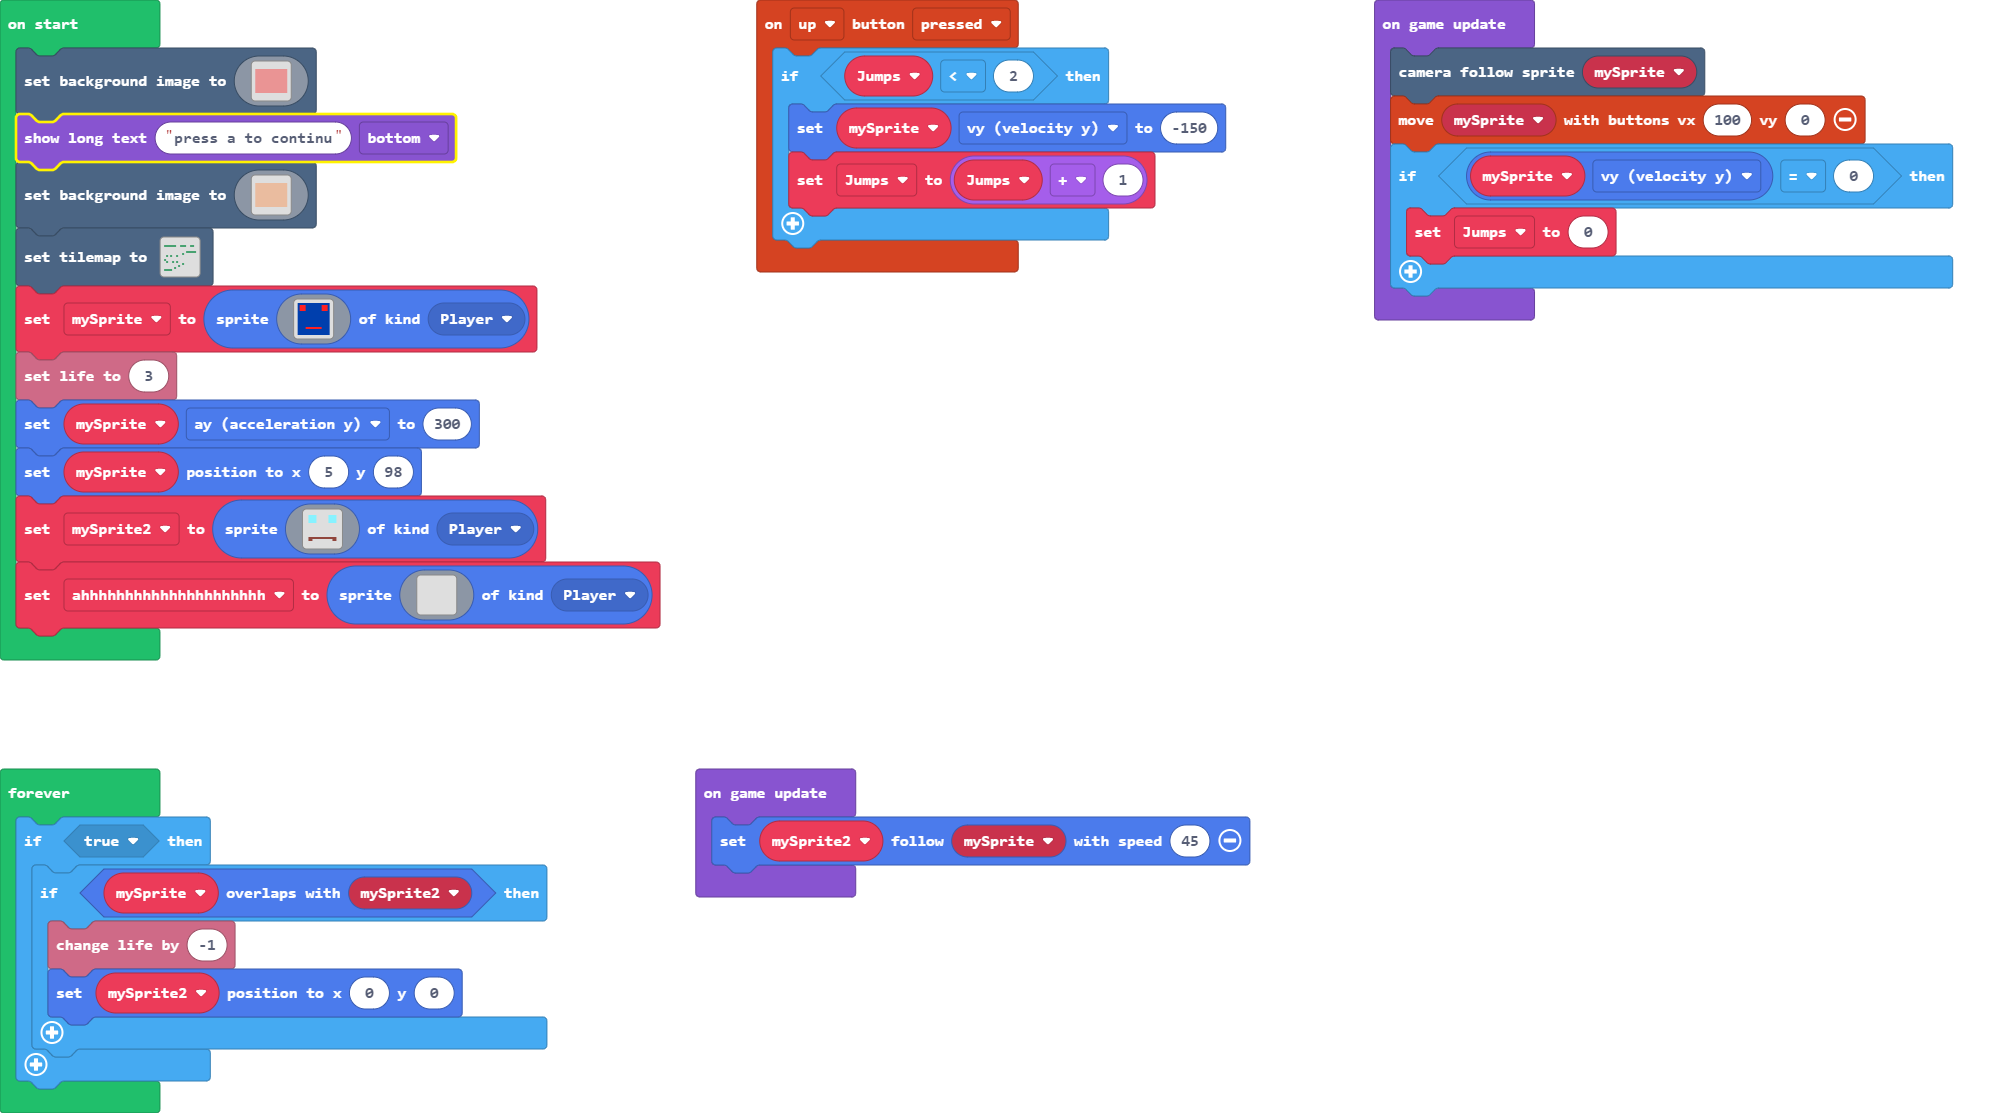
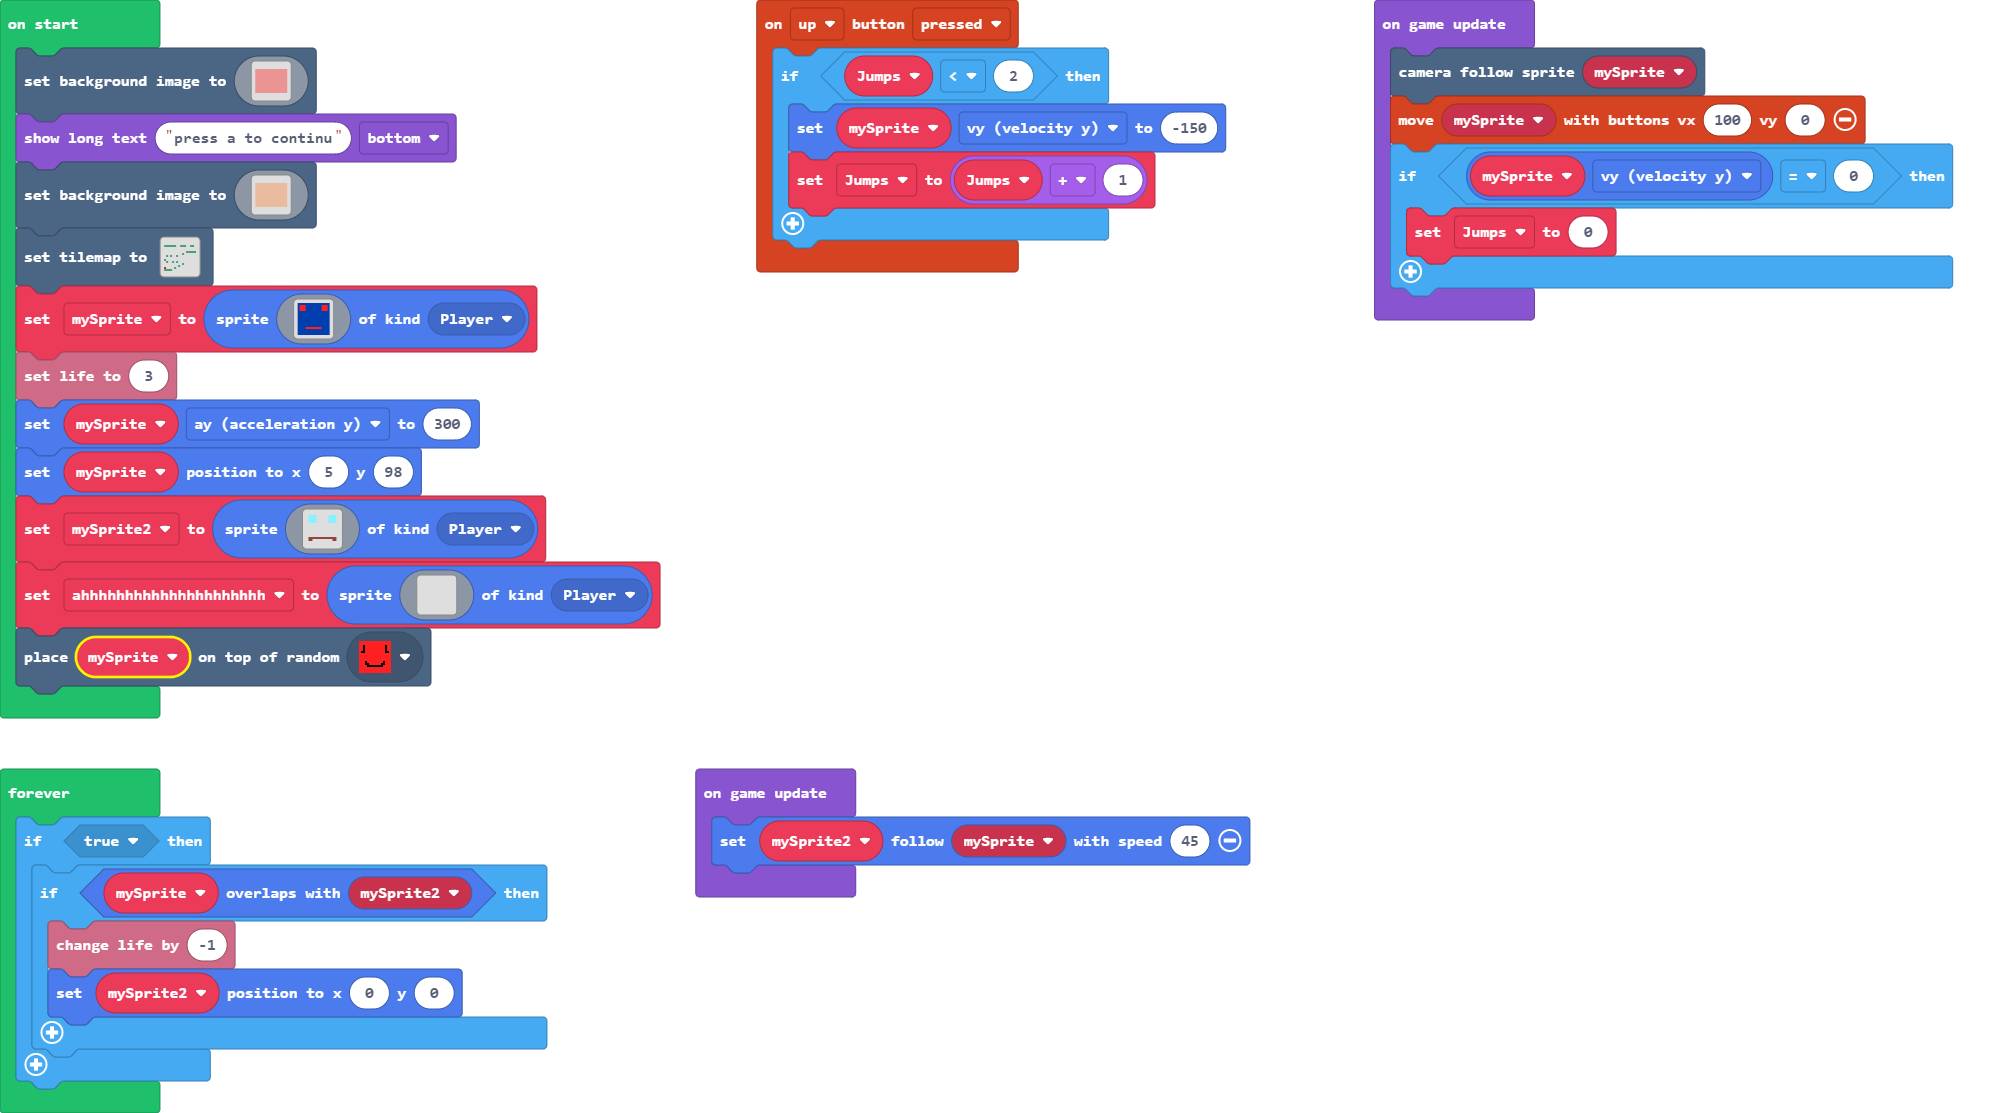
yee

Changed region(s): [[0.0, 0.5499, 0.2165, 0.6721], [0.0, 0.0916, 0.2165, 0.1527]]

diff --git a/tilemap.g.ts b/tilemap.g.ts
@@ -2,10 +2,12 @@
 namespace myTiles {
     //% fixedInstance jres blockIdentity=images._tile
     export const transparency16 = image.ofBuffer(hex``);
+    //% fixedInstance jres blockIdentity=images._tile
+    export const tile1 = image.ofBuffer(hex``);
 
     helpers.registerTilemapFactory(function(name: string) {
         switch(helpers.stringTrim(name)) {
-            case "level": return tiles.createTilemap(hex`1000100000000000000000000000000000000000000000000000000000000000000000000101010101010000010101000001010000000000000000000000000000000000000000000000000000000000000000000000000000000000000000010101010100000000000000000001000000000000000100010000010000000000000000000000000000000000000000000000000001000000000000000000000000000000000100000100010000000000000000000000000000000000000100000000000000000000000000010000000000000000000000000001000000000000000000000101010100000000000000000000000000000000000000000000000000000000`, img`
+            case "level": return tiles.createTilemap(hex`1000100000000000000000000000000000000000000000000000000000000000000000000101010101010000010101000001010000000000000000000000000000000000000000000000000000000000000000000000000000000000000000010101010100000000000000000001000000000000000100010000010000000000000000000000000000000000000000000000000001000000000000000000000000000000000100000100010000000000000000000000000000000000000100000000000000000000000000010000000000000000020000000001000000000000000000000101010100000000000000000000000000000000000000000000000000000000`, img`
 . . . . . . . . . . . . . . . . 
 . . . . . . . . . . . . . . . . 
 2 2 2 2 2 2 . . 2 2 2 . . 2 2 . 
@@ -22,7 +24,7 @@ namespace myTiles {
 . . . . . 2 . . . . . . . . . . 
 2 2 2 2 . . . . . . . . . . . . 
 . . . . . . . . . . . . . . . . 
-`, [myTiles.transparency16,sprites.builtin.forestTiles0], TileScale.Sixteen)
+`, [myTiles.transparency16,sprites.builtin.forestTiles0,myTiles.tile1], TileScale.Sixteen)
         }
         return null;
     })

diff --git a/main.ts b/main.ts
@@ -309,6 +309,7 @@ let ahhhhhhhhhhhhhhhhhhhhh = sprites.create(img`
     . . . . . . . . . . . . . . . . 
     . . . . . . . . . . . . . . . . 
     `, SpriteKind.Player)
+tiles.placeOnRandomTile(mySprite, myTiles.tile1)
 game.onUpdate(function () {
     scene.cameraFollowSprite(mySprite)
     controller.moveSprite(mySprite, 100, 0)
